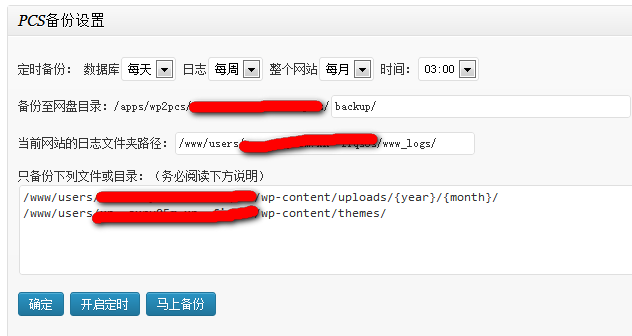
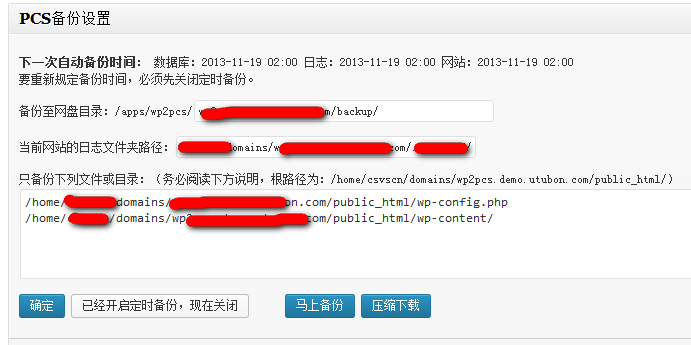
update to 1.0.3
git-svn-id: https://plugins.svn.wordpress.org/wp2pcs/trunk@806258 b8457f37-d9ea-0310-8a92-e5e31aec5664

diff --git a/wp-backup-to-baidu-pcs.php b/wp-backup-to-baidu-pcs.php
@@ -23,13 +23,24 @@ function wp2pcs_more_reccurences(){
 // 停用插件的时候停止定时任务
 register_deactivation_hook(WP2PCS_PLUGIN_NAME,'wp2pcs_plugin_deactivate');
 function wp2pcs_plugin_deactivate(){
-	if(wp_next_scheduled('wp_backup_to_pcs_corn_task'))wp_clear_scheduled_hook('wp_backup_to_pcs_corn_task');
+	// 关闭定时任务
+	if(wp_next_scheduled('wp_backup_to_pcs_corn_task_database'))
+		wp_clear_scheduled_hook('wp_backup_to_pcs_corn_task_database');
+	if(wp_next_scheduled('wp_backup_to_pcs_corn_task_logs'))
+		wp_clear_scheduled_hook('wp_backup_to_pcs_corn_task_logs');
+	if(wp_next_scheduled('wp_backup_to_pcs_corn_task_www'))
+		wp_clear_scheduled_hook('wp_backup_to_pcs_corn_task_www');
 }
 
 // 添加处理
 add_action('init','wp_backup_to_pcs_action');
 function wp_backup_to_pcs_action(){
 	if(!is_admin())return;
+	if(is_multisite() && !current_user_can('manage_network')){
+		return;
+	}elseif(!current_user_can('edit_theme_options')){
+		return;
+	}
 	// 备份到百度网盘
 	if(!empty($_POST) && isset($_POST['page']) && $_POST['page'] == $_GET['page'] && isset($_POST['action']) && $_POST['action'] == 'wp_backup_to_pcs_send_file'){
 		check_admin_referer();
@@ -71,6 +82,42 @@ function wp_backup_to_pcs_action(){
 			update_option('wp_backup_to_pcs_local_paths',$local_paths);
 		}else{
 			delete_option('wp_backup_to_pcs_local_paths');
+		}
+		// 压缩下载
+		if(isset($_POST['wp_backup_to_pcs_zip']) && $_POST['wp_backup_to_pcs_zip'] == '压缩下载'){
+			$zip_dir = trailingslashit(WP_CONTENT_DIR);
+			// 备份日志
+			if($log_dir){
+				$log_file = zip_files_in_dirs($log_dir,$zip_dir.'logs.zip',$log_dir);
+			}
+			if($local_paths && !empty($local_paths)){
+				$www_file = zip_files_in_dirs($local_paths,$zip_dir.'www.zip',ABSPATH);
+			}
+			if($log_file || $www_file){
+				if($log_file && $www_file){
+					$zip_file = zip_files_in_dirs(array($log_file,$www_file),$zip_dir.'wp2pcs.zip',$zip_dir);
+				}elseif($log_file){
+					$zip_file = $log_file;
+				}elseif($www_file){
+					$zip_file = $www_file;
+				}else{
+					wp_die('没有需要打包的文件！');
+					exit;
+				}
+				header("Content-type: application/octet-stream");
+				header("Content-disposition: attachment; filename=".basename($zip_file));
+				$file_content = '';
+				$handle = fopen($zip_file,'rb');
+				while(!feof($handle)){
+					$file_content .= fread($handle,2*1024*1024);
+				}
+				fclose($handle);
+				echo $file_content;
+				unlink($zip_file);
+				if(file_exists($log_file))unlink($log_file);
+				if(file_exists($www_file))unlink($www_file);
+				exit;
+			}
 		}
 		// 立即备份
 		if(isset($_POST['wp_backup_to_pcs_now']) && $_POST['wp_backup_to_pcs_now'] == '马上备份'){
@@ -128,7 +175,7 @@ function wp_backup_to_pcs_action(){
 					wp_clear_scheduled_hook('wp_backup_to_pcs_corn_task_www');
 			}
 		}
-		wp_redirect(add_query_arg(array('time'=>time())));
+		wp_redirect(remove_query_arg('_wpnonce',add_query_arg(array('time'=>time()))));
 		exit;
 	}
 }
@@ -221,7 +268,6 @@ function wp_backup_to_pcs_send_super_file($local_path,$remote_dir,$file_block_si
 	$pcs = new BaiduPCS($access_token);
 	$file_blocks = array();//分片上传文件成功后返回的md5值数组集合
 	$file_name = basename($local_path);
-	$file_size = filesize($local_path);
 	$handle = fopen($local_path,'rb');
 	while(!feof($handle)){
 		$file_block_content = fread($handle,$file_block_size);
@@ -273,7 +319,7 @@ function wp_backup_to_pcs_panel(){
 ?>
 <div class="postbox">
 	<h3>PCS备份设置</h3>
-	<form method="post">
+	<form method="post" id="wp-to-pcs-backup-form">
 	<div class="inside" style="border-bottom:1px solid #CCC;margin:0;padding:8px 10px;">
 		<?php if($timestamp_database || $timestamp_logs || $timestamp_www): ?>
 		<p><b>下一次自动备份时间</b>：
@@ -329,8 +375,9 @@ function wp_backup_to_pcs_panel(){
 		<p>
 			<input type="submit" value="确定" class="button-primary" />
 			<input type="submit" name="wp_backup_to_pcs_future" value="<?php echo $btn_text; ?>" class="<?php echo $btn_class; ?>" />
-			<input type="submit" name="wp_backup_to_pcs_now" value="马上备份" class="button-primary" onclick="if(confirm('境外主机请慎用！！马上备份会备份整站或所填写的目录或文件列表，而且现在备份会花费大量的服务器资源，建议在深夜的时候进行！点击“确定”现在备份，点击“取消”则不备份') == false)return false;" />
-			<?php if(!class_exists('ZipArchive'))echo '<b>当前服务器不支持插件打包方式，只有数据库可以被备份。</b>'; ?>
+			&nbsp;&nbsp;&nbsp;&nbsp;
+			<input type="submit" name="wp_backup_to_pcs_now" value="马上备份" class="button-primary" onclick="if(confirm('境外主机由于和百度服务器通信可能存在障碍，可能备份不成功，你可以使用“压缩下载”功能，先下载备份包，然后上传到网盘中！！') == false)return false;if(confirm('马上备份会备份整站或所填写的目录或文件列表，而且现在备份会花费大量的服务器资源，建议在深夜的时候进行！点击“确定”现在备份，点击“取消”则不备份') == false)return false;" />
+			<input type="submit" name="wp_backup_to_pcs_zip" value="压缩下载" class="button-primary" onclick="if(confirm('压缩下载会花费大量的服务器资源，建议在深夜的时候进行！点击“确定”现在下载，点击“取消”则不备份') == false){return false;}else{jQuery('#wp-to-pcs-backup-form').attr('target','_blank');setTimeout(function(){jQuery('#wp-to-pcs-backup-form').attr('target','_self');},500);}" />
 		</p>
 		<input type="hidden" name="action" value="wp_backup_to_pcs_send_file" />
 		<input type="hidden" name="page" value="<?php echo $_GET['page']; ?>" />
@@ -380,7 +427,7 @@ function wp_backup_to_pcs_panel(){
 	<div class="inside" style="border-bottom:1px solid #CCC;margin:0;padding:8px 10px;">
 		<p>定时功能：选“永不”则不备份。定时功能基于wordpress的corn，只有在激活时定时任务才能被加入进程中，所以，如果你想要修改定时任务的周期或时间，你必须先关闭定时任务，接着修改，再开启，这样才能让新的定时任务生效。为了方便管理定时任务，建议你使用一款名为wp-crontrol的插件来管理所有的定时任务，以了解本定时任务的进展。</p>
 		<p style="color:red;font-weight:bold;">注意：由于备份时需要创建压缩文件，并把压缩文件上传到百度网盘，因此一方面需要你的网站空间有可写权限和足够的剩余空间，另一方面可能会消耗你的网站流量，因此请你一定要注意定时备份时选择合理的备份方式，以免造成空间塞满或流量耗尽等问题。</p>
-		<p>境外主机受网络限制，使用马上备份功能可能面临失败的情况，请谨慎使用。<p>
+		<p>境外主机受网络限制，使用马上备份功能可能面临失败的情况，请谨慎使用。<b>你可以选择“压缩下载”功能，它和马上备份的效果是一样的，只不过不自动上传到百度网盘，你需要下载下来自己上传到网盘。</b><p>
 		<?php if($app_key == 'false') : ?>
 		<p>备份至网盘目录：由于你使用的是托管服务，因此，我们只能划出一个文件夹给你使用，你没有对这个文件夹的权限，唯一可以做的就是给你的文件夹取一个容易找到的名字，以方便日后下载备份资料。</p>
 		<?php else : ?>

diff --git a/wp-backup-file-functions.php b/wp-backup-file-functions.php
@@ -32,9 +32,12 @@ function get_files_in_dir_reset(){
 * 第二个参数为准备作为存放zip文件的路径
 * 第三个参数为zip文件中，准备移除的路径字串
 */
-function zip_files_in_dirs($zip_local_paths,$zip_file_path,$remove_path){
+function zip_files_in_dirs($zip_local_paths,$zip_file_path,$remove_path = ''){
 	if(empty($zip_local_paths)){
 		return null;
+	}
+	if(file_exists($zip_file_path)){
+		unlink($zip_file_path);
 	}
 	if(!is_array($zip_local_paths)){
 		if(is_string($zip_local_paths) && (is_file($zip_local_paths) || is_dir($zip_local_paths))){
@@ -43,14 +46,7 @@ function zip_files_in_dirs($zip_local_paths,$zip_file_path,$remove_path){
 			return false;
 		}
 	}
-	if(file_exists($zip_file_path)){
-		unlink($zip_file_path);
-	}
-	/* 基于PHPzip打包方法 */
-	if(!PHPzip_zip_files($zip_local_paths,$zip_file_path,$remove_path)){
-		return false;
-	}
-	/* 基于ZipArchive的打包方法
+
 	$zip = new ZipArchive();
 	if($zip->open($zip_file_path,ZIPARCHIVE::CREATE)!==TRUE){
 		return false;
@@ -80,7 +76,7 @@ function zip_files_in_dirs($zip_local_paths,$zip_file_path,$remove_path){
 			$zip->addFile($zip_local_path,$file_rename);
 		}
 	}
-	$zip->close();//关闭 */
+	$zip->close();
 
 	return $zip_file_path;
 }

diff --git a/wp-storage-insert-to-content.php b/wp-storage-insert-to-content.php
@@ -18,11 +18,10 @@ http://wordpress.stackexchange.com/questions/85351/remove-other-tabs-in-new-word
 */
 
 // 创建一个函数，用来判断是否已经授权
-function is_wp_to_pcs_token_active_for_tab(){
+function is_wp_to_pcs_active_for_tab(){
+	$app_key = get_option('wp_to_pcs_app_key');
 	$access_token = get_option('wp_to_pcs_access_token');
-	$pcs = new BaiduPCS($access_token);
-	$quota = json_decode($pcs->getQuota());
-	if(!$access_token || empty($access_token) || !$pcs || !$quota || isset($quota->error_code) || $quota->error_code){
+	if(!$app_key || !$access_token){
 		return false;
 	}
 	return true;
@@ -31,7 +30,7 @@ function is_wp_to_pcs_token_active_for_tab(){
 // 在新媒体管理界面添加一个百度网盘的选项
 add_filter('media_upload_tabs', 'wp_storage_to_pcs_media_tab' );
 function wp_storage_to_pcs_media_tab($tabs){
-	if(!is_wp_to_pcs_token_active_for_tab())return;
+	if(!is_wp_to_pcs_active_for_tab())return;
 	$newtab = array('file_from_pcs' => '百度网盘');
     return array_merge($tabs,$newtab);
 }

diff --git a/wp-storage-to-baidu-pcs.php b/wp-storage-to-baidu-pcs.php
@@ -14,6 +14,11 @@
 add_action('init','wp_storage_to_pcs_action');
 function wp_storage_to_pcs_action(){
 	if(!is_admin())return;
+	if(is_multisite() && !current_user_can('manage_network')){
+		return;
+	}elseif(!current_user_can('edit_theme_options')){
+		return;
+	}
 	if(!empty($_POST) && isset($_POST['page']) && $_POST['page'] == $_GET['page'] && isset($_POST['action']) && $_POST['action'] == 'wp_storage_to_pcs_update'){
 		check_admin_referer();
 		$app_key = get_option('wp_to_pcs_app_key');
@@ -37,7 +42,7 @@ function wp_storage_to_pcs_action(){
 			$outlink_type = $_POST['wp_storage_to_pcs_outlink_type'];
 			update_option('wp_storage_to_pcs_outlink_type',$outlink_type);
 		}
-		wp_redirect(add_query_arg(array('time'=>time())));
+		wp_redirect(remove_query_arg('_wpnonce',add_query_arg(array('time'=>time()))));
 		exit;
 	}
 }
